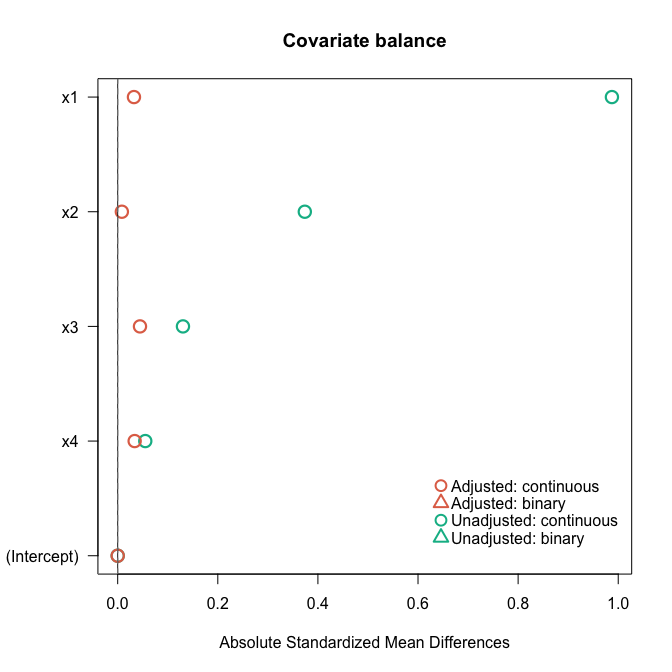
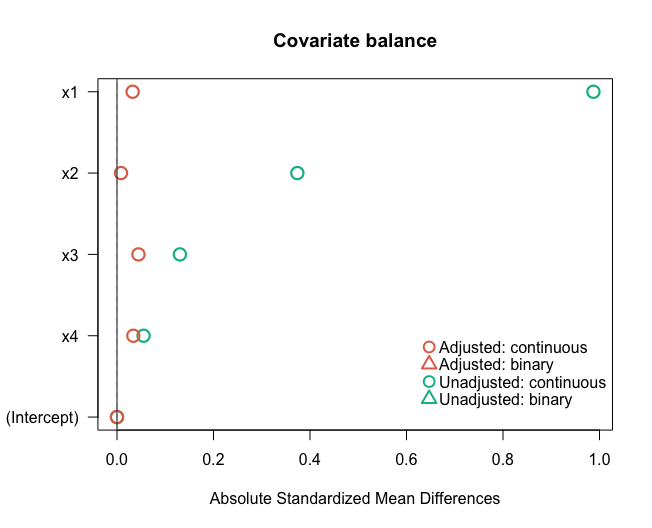
Update README files

Changed region(s): [[0.0, 0.0303, 0.9509, 0.9091], [0.3067, 0.9091, 0.7669, 0.9697], [0.4294, 0.303, 0.4908, 0.3333]]

diff --git a/README.md b/README.md
@@ -16,6 +16,12 @@ also provides several tools for summarizing and checking the estimation
 results, including covariate balance check and an inverse probability
 weights plot.
 
+## How to cite
+
+<font size="4"> Hiroto Katsumata. 2020. nawtilus: An R package for the
+Navigated Weighting. R package version 0.0.1.9000.
+<https://github.com/hirotokatsumata/nawtilus/> </font>
+
 ## Installation
 
 <!--
@@ -118,7 +124,7 @@ par(mar = c(5.1, 5.1, 4.1, 2.1))
 cbcheck(fit)
 ```
 
-<img src="man/figures/README-cbcheck-1.png" width="600" height="600" style="display: block; margin: auto;" />
+<img src="man/figures/README-cbcheck-1.png" width="500" height="404.411764705882" style="display: block; margin: auto;" />
 
 ``` r
 par <- oldpar
@@ -132,7 +138,7 @@ those estimated by the standard logistic regression with
 plot(fit)
 ```
 
-<img src="man/figures/README-plot.nawt-1.png" width="600" height="600" style="display: block; margin: auto;" />
+<img src="man/figures/README-plot.nawt-1.png" width="500" height="500" style="display: block; margin: auto;" />
 
 Finally, check the weights used in propensity score estimation and
 distribution of the estimated propensity scores in the nawt with
@@ -142,4 +148,4 @@ distribution of the estimated propensity scores in the nawt with
 plot_omega(fit)
 ```
 
-<img src="man/figures/README-plot_omega-1.png" width="600" height="600" style="display: block; margin: auto;" />
+<img src="man/figures/README-plot_omega-1.png" width="500" height="500" style="display: block; margin: auto;" />
